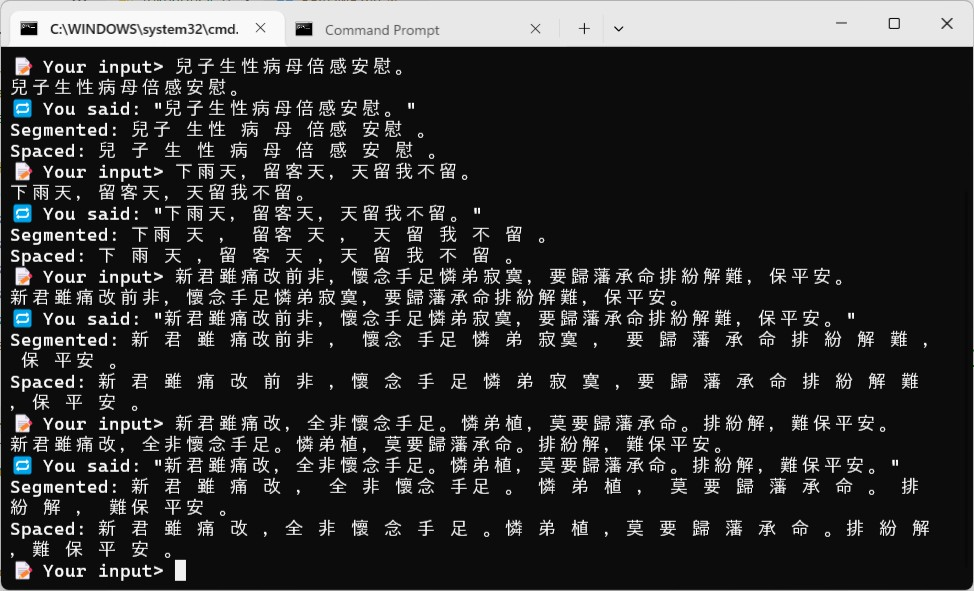
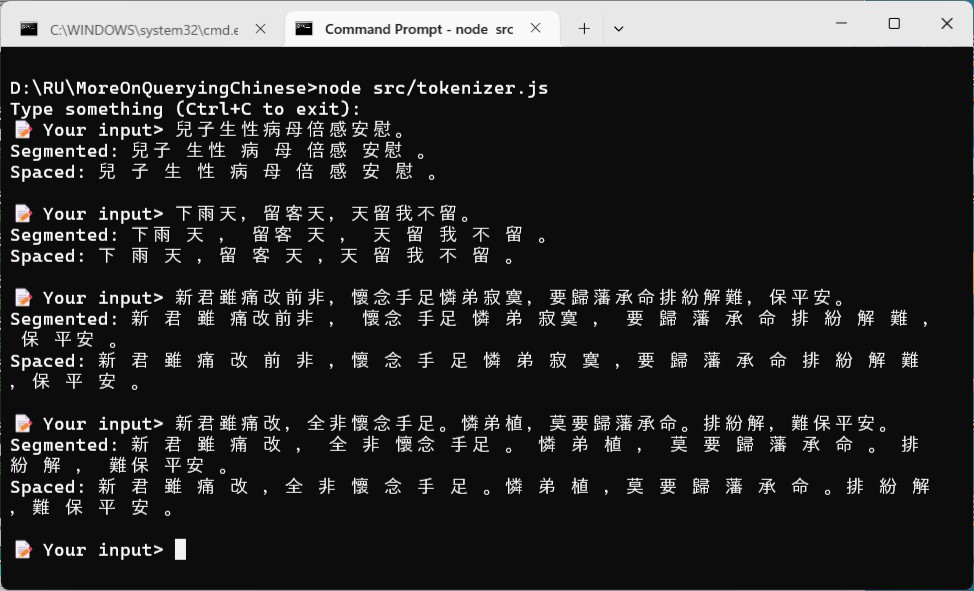
write more

diff --git a/src/tokenizer.js b/src/tokenizer.js
@@ -20,12 +20,13 @@ console.log('Type something (Ctrl+C to exit):');
 rl.prompt();
 
 rl.on('line', (line) => {
-  console.log(`🔁 You said: "${line.trim()}"`);
+  //console.log(`🔁 You said: "${line.trim()}"`);
   const tokens = segment(line);
   // Print segmented result
   console.log('Segmented:', tokens.map(t => t.text).join(' '));
   // Print spaced result
   console.log('Spaced:', spaceChineseChars(line));
+  console.log()
   rl.prompt();
 }).on('close', () => {
   console.log('\n👋 Goodbye!');

diff --git a/README.md b/README.md
@@ -145,6 +145,8 @@ console.log(result.length)
 ```
 ![alt search1](img/search1.JPG)
 
+And that will do, the only problem is slow! A more elaborated implementation is pretty much doing the same thing but on server side via lua script. 
+
 `search2.js`
 ```
 /*
@@ -212,8 +214,14 @@ until (cursor == "0")
 return matched
 ```
 
+And this works much better. The principal issue is that it is not scalable! It's ok with thousands of records but not ten billions, for example. There must be better ways I assure... 
+
 
 #### IV. Faceted Search 
+Observing the output of `tokenizer.js`: 
+![alt tokenizer](img/tokenizer.JPG)
+
+
 
 #### V. 
 
